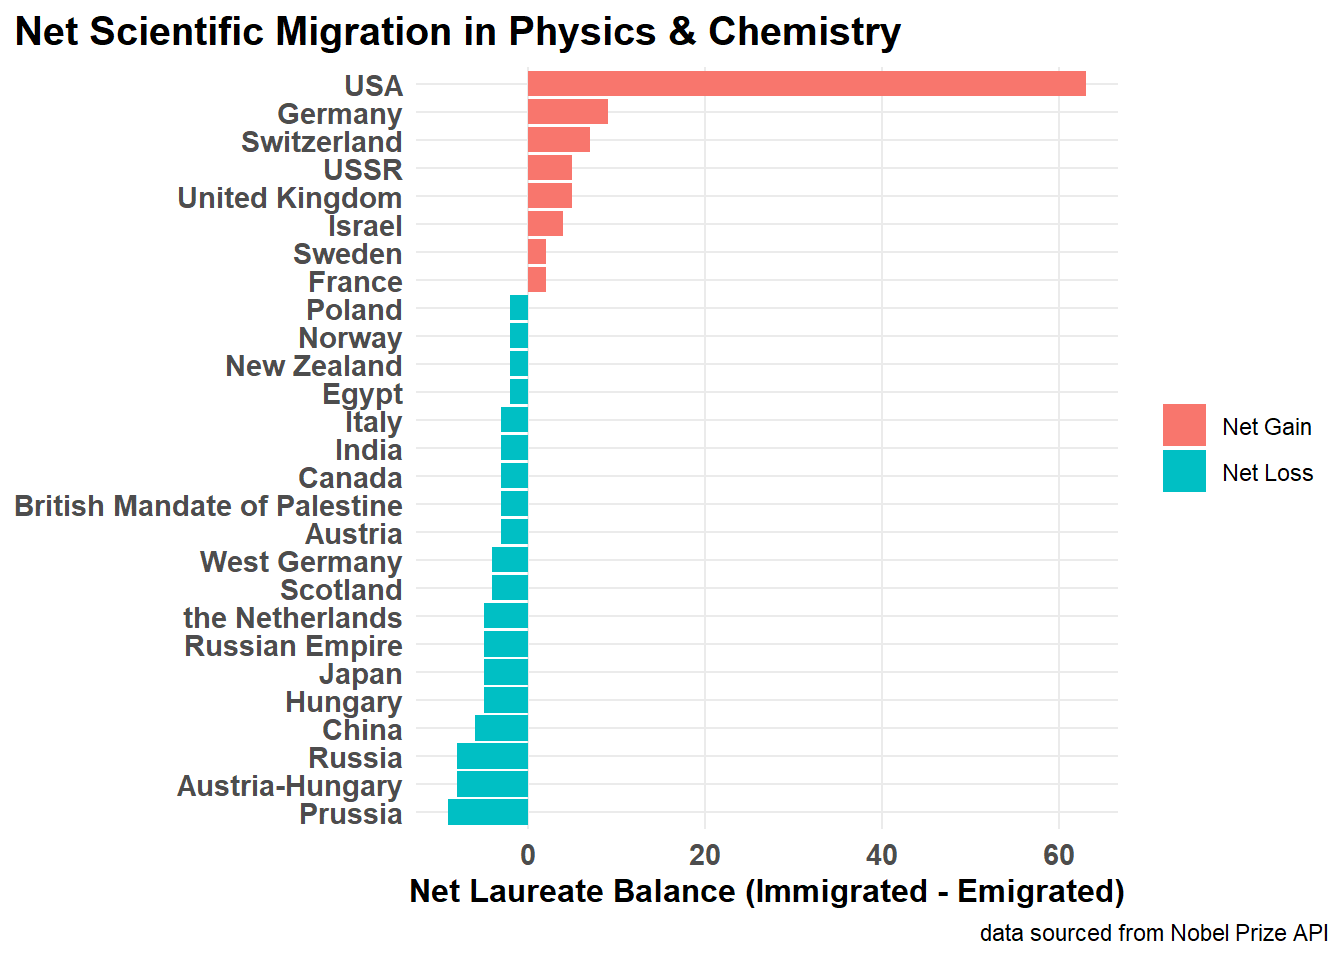
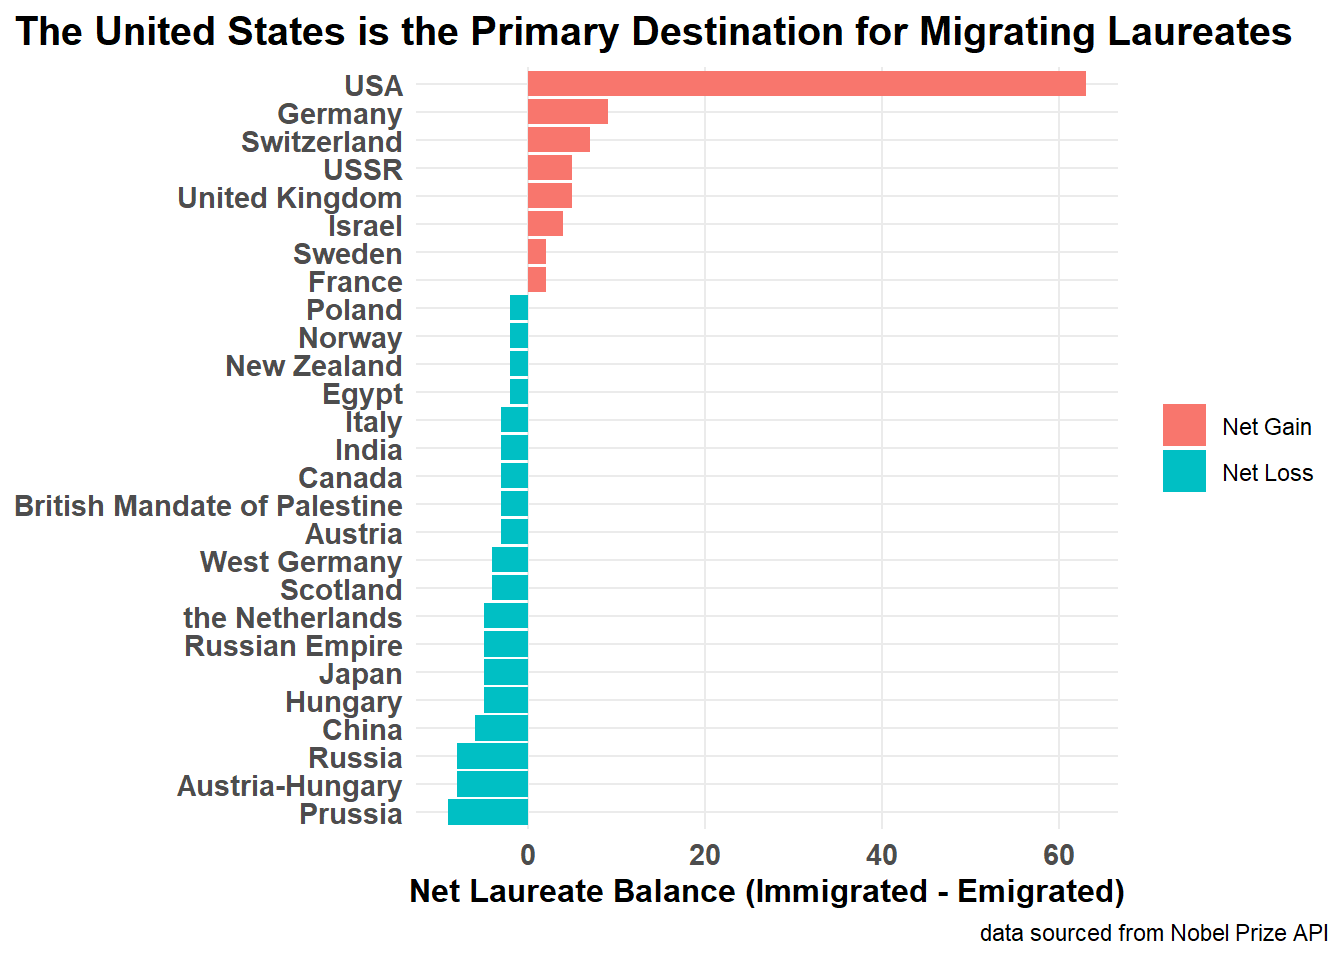
codebase rerender

Changed region(s): [[0.0, 0.0, 0.9688, 0.0625]]

diff --git a/Assignment10B-KCH-Codebase.html b/Assignment10B-KCH-Codebase.html
@@ -657,7 +657,7 @@ window.Quarto = {
 <span id="cb10-8"><a href="#cb10-8" aria-hidden="true" tabindex="-1"></a>q1_plot_data <span class="sc">|&gt;</span>  <span class="fu">ggplot</span>(<span class="fu">aes</span>(<span class="at">x =</span> net_gain, <span class="at">y =</span> country, <span class="at">fill =</span> type)) <span class="sc">+</span> </span>
 <span id="cb10-9"><a href="#cb10-9" aria-hidden="true" tabindex="-1"></a>  <span class="fu">geom_col</span>() <span class="sc">+</span> </span>
 <span id="cb10-10"><a href="#cb10-10" aria-hidden="true" tabindex="-1"></a>  <span class="fu">labs</span>(</span>
-<span id="cb10-11"><a href="#cb10-11" aria-hidden="true" tabindex="-1"></a>    <span class="at">title =</span> <span class="st">"Net Scientific Migration in Physics &amp; Chemistry"</span>,</span>
+<span id="cb10-11"><a href="#cb10-11" aria-hidden="true" tabindex="-1"></a>    <span class="at">title =</span> <span class="st">"The United States is the Primary Destination for Migrating Laureates"</span>,</span>
 <span id="cb10-12"><a href="#cb10-12" aria-hidden="true" tabindex="-1"></a>    <span class="at">caption =</span> <span class="st">"data sourced from Nobel Prize API"</span>,</span>
 <span id="cb10-13"><a href="#cb10-13" aria-hidden="true" tabindex="-1"></a>    <span class="at">x =</span> <span class="st">"Net Laureate Balance (Immigrated - Emigrated)"</span>,</span>
 <span id="cb10-14"><a href="#cb10-14" aria-hidden="true" tabindex="-1"></a>    <span class="at">y =</span> <span class="cn">NULL</span>,</span>
@@ -669,9 +669,10 @@ window.Quarto = {
 <span id="cb10-20"><a href="#cb10-20" aria-hidden="true" tabindex="-1"></a>  )</span></code></pre></div><button title="Copy to Clipboard" class="code-copy-button"><i class="bi"></i></button></div>
 </details>
 <div class="cell-output-display">
-<div>
+<div class="quarto-figure quarto-figure-center">
 <figure class="figure">
 <p><img src="Assignment10B-KCH-Codebase_files/figure-html/question-1-plot-1.png" class="img-fluid figure-img" width="672"></p>
+<figcaption>The United States is the Primary Destination for Migrating Laureates</figcaption>
 </figure>
 </div>
 </div>
@@ -887,7 +888,7 @@ window.Quarto = {
 <span id="cb15-38"><a href="#cb15-38" aria-hidden="true" tabindex="-1"></a>              <span class="at">alpha =</span> <span class="fl">0.5</span>) <span class="sc">+</span></span>
 <span id="cb15-39"><a href="#cb15-39" aria-hidden="true" tabindex="-1"></a>  </span>
 <span id="cb15-40"><a href="#cb15-40" aria-hidden="true" tabindex="-1"></a>  <span class="fu">labs</span>(</span>
-<span id="cb15-41"><a href="#cb15-41" aria-hidden="true" tabindex="-1"></a>    <span class="at">title =</span> <span class="st">"Average Age of Nobel Laureates at Time of Award (by Decade)"</span>,</span>
+<span id="cb15-41"><a href="#cb15-41" aria-hidden="true" tabindex="-1"></a>    <span class="at">title =</span> <span class="st">"Physics Laureates Surpassed Chemistry in Average Age After 1991"</span>,</span>
 <span id="cb15-42"><a href="#cb15-42" aria-hidden="true" tabindex="-1"></a>    <span class="at">caption =</span> <span class="st">"data sourced from Nobel Prize API"</span>,</span>
 <span id="cb15-43"><a href="#cb15-43" aria-hidden="true" tabindex="-1"></a>    <span class="at">x =</span> <span class="st">"Award Year (by decade)"</span>,</span>
 <span id="cb15-44"><a href="#cb15-44" aria-hidden="true" tabindex="-1"></a>    <span class="at">y =</span> <span class="st">"Average Age at Award"</span>,</span>
@@ -901,9 +902,10 @@ window.Quarto = {
 <span id="cb15-52"><a href="#cb15-52" aria-hidden="true" tabindex="-1"></a>  )</span></code></pre></div><button title="Copy to Clipboard" class="code-copy-button"><i class="bi"></i></button></div>
 </details>
 <div class="cell-output-display">
-<div>
+<div class="quarto-figure quarto-figure-center">
 <figure class="figure">
 <p><img src="Assignment10B-KCH-Codebase_files/figure-html/question-2-plot-1.png" class="img-fluid figure-img" width="672"></p>
+<figcaption>Physics Laureates Surpassed Chemistry in Average Age After 1991</figcaption>
 </figure>
 </div>
 </div>
@@ -1050,7 +1052,7 @@ window.Quarto = {
 <span id="cb18-11"><a href="#cb18-11" aria-hidden="true" tabindex="-1"></a>  <span class="fu">geom_col</span>() <span class="sc">+</span></span>
 <span id="cb18-12"><a href="#cb18-12" aria-hidden="true" tabindex="-1"></a>  </span>
 <span id="cb18-13"><a href="#cb18-13" aria-hidden="true" tabindex="-1"></a>  <span class="fu">labs</span>(</span>
-<span id="cb18-14"><a href="#cb18-14" aria-hidden="true" tabindex="-1"></a>    <span class="at">title =</span> <span class="st">"Top 10 Institutional Hubs: Physics &amp; Chemistry"</span>,</span>
+<span id="cb18-14"><a href="#cb18-14" aria-hidden="true" tabindex="-1"></a>    <span class="at">title =</span> <span class="st">"University of California Leads Overall Physical Science Awards"</span>,</span>
 <span id="cb18-15"><a href="#cb18-15" aria-hidden="true" tabindex="-1"></a>    <span class="at">caption =</span> <span class="st">"data sourced from Nobel Prize API"</span>,</span>
 <span id="cb18-16"><a href="#cb18-16" aria-hidden="true" tabindex="-1"></a>    <span class="at">x =</span> <span class="st">"Number of Laureates"</span>,</span>
 <span id="cb18-17"><a href="#cb18-17" aria-hidden="true" tabindex="-1"></a>    <span class="at">y =</span> <span class="cn">NULL</span>,</span>
@@ -1062,9 +1064,10 @@ window.Quarto = {
 <span id="cb18-23"><a href="#cb18-23" aria-hidden="true" tabindex="-1"></a>  )</span></code></pre></div><button title="Copy to Clipboard" class="code-copy-button"><i class="bi"></i></button></div>
 </details>
 <div class="cell-output-display">
-<div>
+<div class="quarto-figure quarto-figure-center">
 <figure class="figure">
 <p><img src="Assignment10B-KCH-Codebase_files/figure-html/question-3-plot-1.png" class="img-fluid figure-img" width="672"></p>
+<figcaption>University of California Leads Overall Physical Science Awards</figcaption>
 </figure>
 </div>
 </div>
